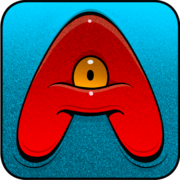
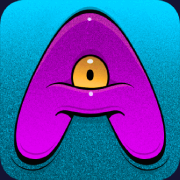
deploy: 29e5d7bd08bd318a949067cc14ad6a6aa417b757

diff --git a/service-worker.js b/service-worker.js
@@ -1,1 +1,1 @@
-!function(){"use strict";const e=1644524597679,i=`cache${e}`,s=["/client/client.e6e3a6e7.js","/client/inject_styles.803b7e80.js","/client/index.2dda4f52.js","/client/address.09a499eb.js","/client/roadmap.72894f40.js","/client/about.a9c41b67.js"].concat(["/service-worker-index.html","/CNAME","/browserconfig.xml","/favicon.ico","/icons/android-chrome-192x192.png","/icons/android-chrome-512x512.png","/icons/apple-touch-icon.png","/icons/favicon-16x16.png","/icons/favicon-32x32.png","/icons/mstile-150x150.png","/images/algo-logo.svg","/images/algoxnft-logo.png","/images/apps-logo.png","/images/bg-noise.jpg","/images/frame-bottom.png","/images/frame-sides.png","/images/frame-top.png","/images/hand-left.png","/images/hand-right.png","/images/myalgo-logo.png","/images/nftexplorer-logo.png","/images/noise.png","/images/rand-logo.png","/images/walletconnect-logo.svg","/ipfs/bafybeiacyujshu3t27yyqut7dbe3s4ay6gsmpvt4vjneyf2ncoeo2h6owm.jpeg","/ipfs/bafybeiaogjqgmdtxn6nw5ncc2ykhqxqbqbjg2557vl4chuffstuvqhklg4.jpeg","/ipfs/bafybeiapuoz4z6o5ugx6ycwl3megwklvalmghmo7u6wtpoiygsb3ikmht4.jpeg","/ipfs/bafybeib5gum4trjkhztrskouing23swtk64ozr46uzw3sunfevxan4xuoi.jpeg","/ipfs/bafybeib5sjgkoub25iqqs2wxwu77tkoi7rda6oeye3gtcgpeeonhadnay4.jpeg","/ipfs/bafybeibcn6zykfsr7ib6csppc5rd27nhq6udjwh7zkzww23qc6tijjbmoi.jpeg","/ipfs/bafybeic7b5lxcgro4vartgnsbrfzzglml27yzbky7mf2nipjxlr3g752im.jpeg","/ipfs/bafybeiceatzf4zh3tfjxcsmmt2mdxxoqbvo56nxqfpdu6b5r4nkd43dhfq.jpeg","/ipfs/bafybeicf3oskgacitc7ftao7fkz4x3vhtanrlvhd65bxgiekqkjgv653si.jpeg","/ipfs/bafybeich3h2u3jkkunutxpbz7wxxnktacjpnnztylozekcfbgq5qygkekq.jpeg","/ipfs/bafybeicl3ngj23sb5ajdbgpwzjpjbubeafcqbczoexjy2y4cwap3jqygo4.jpeg","/ipfs/bafybeicl5g7nyjqopvi3ubbf7547djwynos4mbzcr3rbu4ig72wzzfv6wu.jpeg","/ipfs/bafybeicw32z2dzcppq656il5d3pxwikl47ojxdaeoygj64i4zzk5whjsli.jpeg","/ipfs/bafybeicx4jecnrekg6eeznwqbxzrrjvhn7zkpzfa6fmdrrt5lf2egrwvw4.jpeg","/ipfs/bafybeidtoygnxoc7vztjnry6gst4dz2hwpasau2auq5xcxetju3t6vkhgy.jpeg","/ipfs/bafybeidxx3egmkhjkqmllb7f5geqeovrk3x3jtguwykn25ktbg5fqc4hvu.jpeg","/ipfs/bafybeie4yno73erkhiis56mdohhzpm2yj35krlisv6u3ep4czk5wgpbxcu.jpeg","/ipfs/bafybeie74nxxgnsmpgz2mp7rmx6lmxepbeqehvbyi5taa46fmz6emom5dm.jpeg","/ipfs/bafybeieoyrrcidxjtmgz5qptitmvajdtdmhsaj6b6syryevevkiahiarna.jpeg","/ipfs/bafybeifh5sxmhh4b2cnm2z2lbzjnsibis3nwd64nqnrsrsxk7avhbp5f4i.jpeg","/ipfs/bafybeifj5fhnldvru62ao6r6hetrtavnzo3zrvnxmwmwpu6ualdafaie6e.jpeg","/ipfs/bafybeifjvoovbrjo47z7qpvit2xjkqbfjwcl2lthlylgnmzvtod3h7bojq.jpeg","/ipfs/bafybeiflbi563pv32ainxixoinijqhhpwd3e7gd7jhkcpjd3s2cu4n5cwy.jpeg","/ipfs/bafybeifvgi5ch2dtv5g5obnwrr6hlzewxbb4wtvnkh6gmwsrirv3c2seoe.jpeg","/ipfs/bafybeifvvz7y3z3svt3aud4i2nll46uyqjznh7u5f4surnj6pg2atiefbu.jpeg","/ipfs/bafybeigctmnr7sfblfgy3dsppbdshmufsau52u622i6sx3otzpzfwh2oya.jpeg","/ipfs/bafybeighx5zru3nulvchnzbrt5saytsczkpjfqcb4sv7i5cik6v37ap7di.jpeg","/ipfs/bafybeigqdjjj3o2bynwlzznyejytzuogoopyueorwzijacbwnkdfkleiva.jpeg","/ipfs/bafybeigxokj6rv7jeblpha3fb65dl5wvmxq4y23d7ewrpwg7fw7xo4rkxi.jpeg","/ipfs/bafybeih2gwap5nxcqxtsbuwvp3yzok244ixckkc56q6gjceqdrwgdfiimi.jpeg","/ipfs/bafybeihmi22tobx3omf5h2x6lkb5jrtiegsyvc44yivhhfityneysamnkm.jpeg","/ipfs/bafybeihp45csbezjbyp6fpckaascmxeujkslk6pfyfaw4fav4qaqfjqp5i.jpeg","/ipfs/bafybeihqwvrmjspod3maflvjvo4qc6kjypmocquijd7lm5kmk5jfezkofi.jpeg","/manifest.json","/mstile-150x150.png","/safari-pinned-tab.svg","/scripts/algosdk.1.13.0-beta.2.min.js","/scripts/algosdk.min.js","/scripts/myalgo.min.js","/share/apps-twitter-share.jpg"]),a=new Set(s);self.addEventListener("install",(e=>{e.waitUntil(caches.open(i).then((e=>e.addAll(s))).then((()=>{self.skipWaiting()})))})),self.addEventListener("activate",(e=>{e.waitUntil(caches.keys().then((async e=>{for(const s of e)s!==i&&await caches.delete(s);self.clients.claim()})))})),self.addEventListener("fetch",(i=>{if("GET"!==i.request.method||i.request.headers.has("range"))return;const s=new URL(i.request.url),n=s.protocol.startsWith("http"),p=s.hostname===self.location.hostname&&s.port!==self.location.port,t=s.host===self.location.host&&a.has(s.pathname),f="only-if-cached"===i.request.cache&&!t;!n||p||f||i.respondWith((async()=>t&&await caches.match(i.request)||async function(i){const s=await caches.open(`offline${e}`);try{const e=await fetch(i);return s.put(i,e.clone()),e}catch(e){const a=await s.match(i);if(a)return a;throw e}}(i.request))())}))}();
+!function(){"use strict";const e=1644635992564,i=`cache${e}`,s=["/client/client.e6e3a6e7.js","/client/inject_styles.803b7e80.js","/client/index.2dda4f52.js","/client/address.09a499eb.js","/client/roadmap.72894f40.js","/client/about.a9c41b67.js"].concat(["/service-worker-index.html","/CNAME","/browserconfig.xml","/favicon.ico","/icons/android-chrome-192x192.png","/icons/android-chrome-512x512.png","/icons/apple-touch-icon.png","/icons/favicon-16x16.png","/icons/favicon-32x32.png","/icons/mstile-150x150.png","/images/algo-logo.svg","/images/algoxnft-logo.png","/images/apps-logo-red.png","/images/apps-logo.png","/images/bg-noise.jpg","/images/frame-bottom.png","/images/frame-sides.png","/images/frame-top.png","/images/hand-left.png","/images/hand-right.png","/images/myalgo-logo.png","/images/nftexplorer-logo.png","/images/noise.png","/images/rand-logo.png","/images/walletconnect-logo.svg","/ipfs/bafybeiacyujshu3t27yyqut7dbe3s4ay6gsmpvt4vjneyf2ncoeo2h6owm.jpeg","/ipfs/bafybeiaogjqgmdtxn6nw5ncc2ykhqxqbqbjg2557vl4chuffstuvqhklg4.jpeg","/ipfs/bafybeiapuoz4z6o5ugx6ycwl3megwklvalmghmo7u6wtpoiygsb3ikmht4.jpeg","/ipfs/bafybeib5gum4trjkhztrskouing23swtk64ozr46uzw3sunfevxan4xuoi.jpeg","/ipfs/bafybeib5sjgkoub25iqqs2wxwu77tkoi7rda6oeye3gtcgpeeonhadnay4.jpeg","/ipfs/bafybeibcn6zykfsr7ib6csppc5rd27nhq6udjwh7zkzww23qc6tijjbmoi.jpeg","/ipfs/bafybeic7b5lxcgro4vartgnsbrfzzglml27yzbky7mf2nipjxlr3g752im.jpeg","/ipfs/bafybeiceatzf4zh3tfjxcsmmt2mdxxoqbvo56nxqfpdu6b5r4nkd43dhfq.jpeg","/ipfs/bafybeicf3oskgacitc7ftao7fkz4x3vhtanrlvhd65bxgiekqkjgv653si.jpeg","/ipfs/bafybeich3h2u3jkkunutxpbz7wxxnktacjpnnztylozekcfbgq5qygkekq.jpeg","/ipfs/bafybeicl3ngj23sb5ajdbgpwzjpjbubeafcqbczoexjy2y4cwap3jqygo4.jpeg","/ipfs/bafybeicl5g7nyjqopvi3ubbf7547djwynos4mbzcr3rbu4ig72wzzfv6wu.jpeg","/ipfs/bafybeicw32z2dzcppq656il5d3pxwikl47ojxdaeoygj64i4zzk5whjsli.jpeg","/ipfs/bafybeicx4jecnrekg6eeznwqbxzrrjvhn7zkpzfa6fmdrrt5lf2egrwvw4.jpeg","/ipfs/bafybeidtoygnxoc7vztjnry6gst4dz2hwpasau2auq5xcxetju3t6vkhgy.jpeg","/ipfs/bafybeidxx3egmkhjkqmllb7f5geqeovrk3x3jtguwykn25ktbg5fqc4hvu.jpeg","/ipfs/bafybeie4yno73erkhiis56mdohhzpm2yj35krlisv6u3ep4czk5wgpbxcu.jpeg","/ipfs/bafybeie74nxxgnsmpgz2mp7rmx6lmxepbeqehvbyi5taa46fmz6emom5dm.jpeg","/ipfs/bafybeieoyrrcidxjtmgz5qptitmvajdtdmhsaj6b6syryevevkiahiarna.jpeg","/ipfs/bafybeifh5sxmhh4b2cnm2z2lbzjnsibis3nwd64nqnrsrsxk7avhbp5f4i.jpeg","/ipfs/bafybeifj5fhnldvru62ao6r6hetrtavnzo3zrvnxmwmwpu6ualdafaie6e.jpeg","/ipfs/bafybeifjvoovbrjo47z7qpvit2xjkqbfjwcl2lthlylgnmzvtod3h7bojq.jpeg","/ipfs/bafybeiflbi563pv32ainxixoinijqhhpwd3e7gd7jhkcpjd3s2cu4n5cwy.jpeg","/ipfs/bafybeifvgi5ch2dtv5g5obnwrr6hlzewxbb4wtvnkh6gmwsrirv3c2seoe.jpeg","/ipfs/bafybeifvvz7y3z3svt3aud4i2nll46uyqjznh7u5f4surnj6pg2atiefbu.jpeg","/ipfs/bafybeigctmnr7sfblfgy3dsppbdshmufsau52u622i6sx3otzpzfwh2oya.jpeg","/ipfs/bafybeighx5zru3nulvchnzbrt5saytsczkpjfqcb4sv7i5cik6v37ap7di.jpeg","/ipfs/bafybeigqdjjj3o2bynwlzznyejytzuogoopyueorwzijacbwnkdfkleiva.jpeg","/ipfs/bafybeigxokj6rv7jeblpha3fb65dl5wvmxq4y23d7ewrpwg7fw7xo4rkxi.jpeg","/ipfs/bafybeih2gwap5nxcqxtsbuwvp3yzok244ixckkc56q6gjceqdrwgdfiimi.jpeg","/ipfs/bafybeihmi22tobx3omf5h2x6lkb5jrtiegsyvc44yivhhfityneysamnkm.jpeg","/ipfs/bafybeihp45csbezjbyp6fpckaascmxeujkslk6pfyfaw4fav4qaqfjqp5i.jpeg","/ipfs/bafybeihqwvrmjspod3maflvjvo4qc6kjypmocquijd7lm5kmk5jfezkofi.jpeg","/manifest.json","/mstile-150x150.png","/safari-pinned-tab.svg","/scripts/algosdk.1.13.0-beta.2.min.js","/scripts/algosdk.min.js","/scripts/myalgo.min.js","/share/apps-twitter-share.jpg"]),a=new Set(s);self.addEventListener("install",(e=>{e.waitUntil(caches.open(i).then((e=>e.addAll(s))).then((()=>{self.skipWaiting()})))})),self.addEventListener("activate",(e=>{e.waitUntil(caches.keys().then((async e=>{for(const s of e)s!==i&&await caches.delete(s);self.clients.claim()})))})),self.addEventListener("fetch",(i=>{if("GET"!==i.request.method||i.request.headers.has("range"))return;const s=new URL(i.request.url),n=s.protocol.startsWith("http"),p=s.hostname===self.location.hostname&&s.port!==self.location.port,t=s.host===self.location.host&&a.has(s.pathname),f="only-if-cached"===i.request.cache&&!t;!n||p||f||i.respondWith((async()=>t&&await caches.match(i.request)||async function(i){const s=await caches.open(`offline${e}`);try{const e=await fetch(i);return s.put(i,e.clone()),e}catch(e){const a=await s.match(i);if(a)return a;throw e}}(i.request))())}))}();
